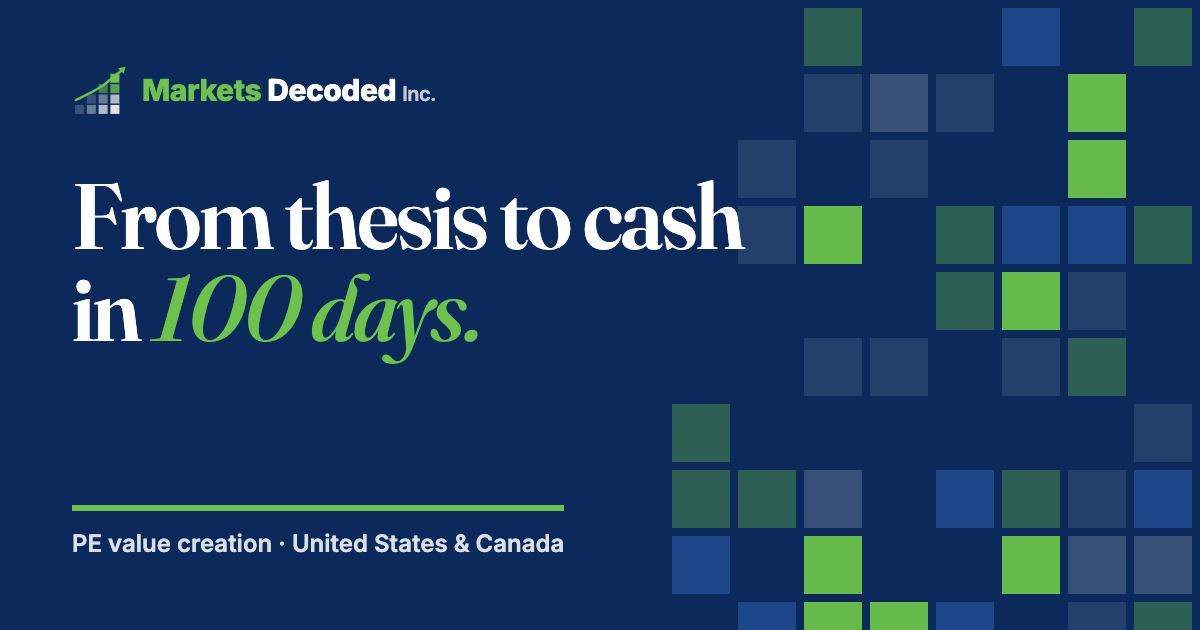
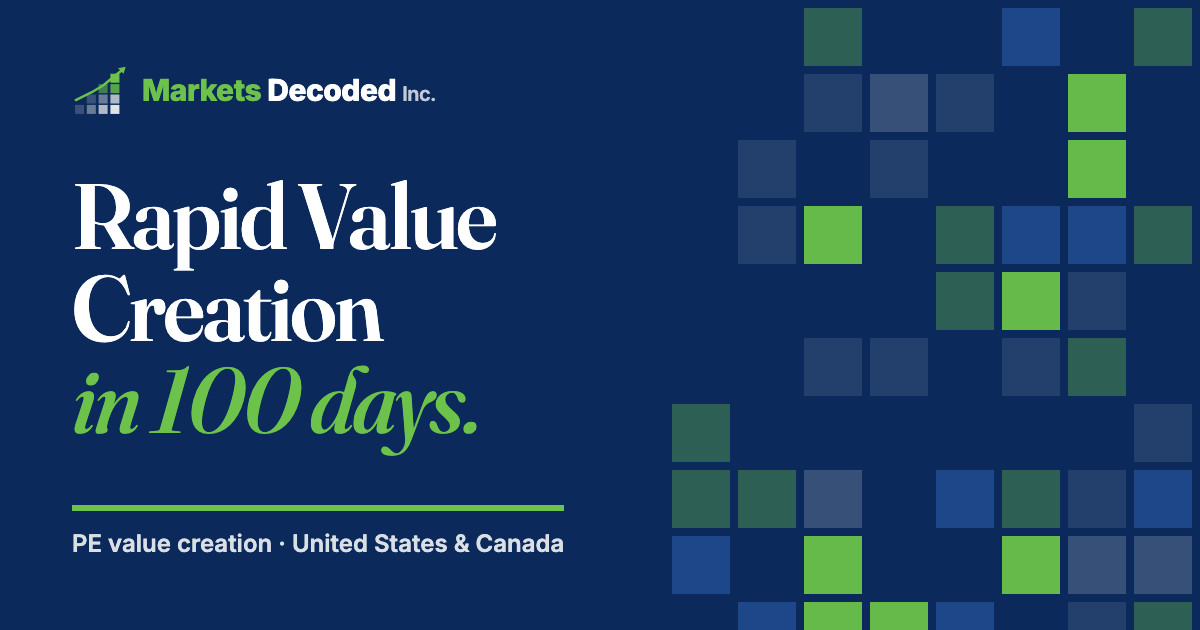
Change headline to "Rapid Value Creation in 100 days."
- Home hero, site tagline (footer), structured-data slogan and share-image alt text
- Regenerated og-image with the new headline
- Hero eyebrow shortened to "For PE sponsors · US & Canada"

Changed region(s): [[0.0617, 0.2714, 0.6167, 0.573], [0.0617, 0.573, 0.4008, 0.7238]]

diff --git a/index.html b/index.html
@@ -19,7 +19,7 @@
   <meta property="og:image" content="https://www.marketsdecoded.com/assets/img/og-image.png">
   <meta property="og:image:width" content="1200">
   <meta property="og:image:height" content="630">
-  <meta property="og:image:alt" content="Markets Decoded Inc. — From thesis to cash in 100 days.">
+  <meta property="og:image:alt" content="Markets Decoded Inc. — Rapid Value Creation in 100 days.">
   <meta name="twitter:card" content="summary_large_image">
   <meta name="twitter:title" content="Markets Decoded Inc. | Private Equity Value Creation, US & Canada">
   <meta name="twitter:description" content="Senior-led value creation for PE sponsors and portfolio companies. Measurable cash and EBITDA impact within 100 days, across the US and Canada.">
@@ -36,7 +36,7 @@
   <script src="assets/data/site-data.js" defer></script>
   <script src="assets/js/components.js" defer></script>
   <script src="assets/js/main.js" defer></script>
-  <script type="application/ld+json">{"@context": "https://schema.org", "@type": "ProfessionalService", "name": "Markets Decoded Inc.", "url": "https://www.marketsdecoded.com", "logo": "https://www.marketsdecoded.com/assets/img/logo.svg", "description": "Senior-led value creation partner for private equity sponsors and their portfolio companies across the US and Canada.", "slogan": "From thesis to cash in 100 days.", "address": {"@type": "PostalAddress", "addressLocality": "Toronto", "addressRegion": "ON", "addressCountry": "CA"}, "areaServed": [{"@type": "Country", "name": "Canada"}, {"@type": "Country", "name": "United States"}], "email": "contactus@marketsdecoded.com"}</script>
+  <script type="application/ld+json">{"@context": "https://schema.org", "@type": "ProfessionalService", "name": "Markets Decoded Inc.", "url": "https://www.marketsdecoded.com", "logo": "https://www.marketsdecoded.com/assets/img/logo.svg", "description": "Senior-led value creation partner for private equity sponsors and their portfolio companies across the US and Canada.", "slogan": "Rapid Value Creation in 100 days.", "address": {"@type": "PostalAddress", "addressLocality": "Toronto", "addressRegion": "ON", "addressCountry": "CA"}, "areaServed": [{"@type": "Country", "name": "Canada"}, {"@type": "Country", "name": "United States"}], "email": "contactus@marketsdecoded.com"}</script>
 </head>
 <body>
   <noscript><p class="noscript">This site works best with JavaScript enabled. <a href="services.html">Services</a> · <a href="results.html">Results</a> · <a href="contact.html">Contact</a></p></noscript>
@@ -46,8 +46,8 @@
     <section class="hero on-dark" aria-labelledby="page-title">
       <div class="hero-art"><div data-component="Media" data-props='{"slot": "home-hero", "seed": "home-hero-v2", "variant": "dark", "corner": 2, "eager": true}'></div></div>
       <div class="container hero-inner">
-        <p class="eyebrow">Value creation for PE sponsors · US &amp; Canada</p>
-        <h1 id="page-title" class="display-1">From thesis to cash in <span class="accent">100&nbsp;days.</span></h1>
+        <p class="eyebrow">For PE sponsors · US &amp; Canada</p>
+        <h1 id="page-title" class="display-1">Rapid Value Creation <span class="accent">in&nbsp;100&nbsp;days.</span></h1>
         <p class="lede">Markets Decoded is the senior-led value creation partner for private equity sponsors and their portfolio companies. We turn the investment thesis into measurable cash and EBITDA impact, in focused sprints.</p>
         <div class="hero-actions">
           <a class="btn btn-primary" href="contact.html?interest=diagnostic">Book a Diagnostic</a>

diff --git a/insight-portfolio-cyber-hygiene.html b/insight-portfolio-cyber-hygiene.html
@@ -19,7 +19,7 @@
   <meta property="og:image" content="https://www.marketsdecoded.com/assets/img/og-image.png">
   <meta property="og:image:width" content="1200">
   <meta property="og:image:height" content="630">
-  <meta property="og:image:alt" content="Markets Decoded Inc. — From thesis to cash in 100 days.">
+  <meta property="og:image:alt" content="Markets Decoded Inc. — Rapid Value Creation in 100 days.">
   <meta name="twitter:card" content="summary_large_image">
   <meta name="twitter:title" content="Portfolio Cyber Hygiene for Operating Partners | Markets Decoded Inc.">
   <meta name="twitter:description" content="The cyber hygiene basics, questions and governance routine every operating partner needs to keep cyber exposure visible across a PE portfolio.">

diff --git a/insight-sales-comp-ebitda-lever.html b/insight-sales-comp-ebitda-lever.html
@@ -19,7 +19,7 @@
   <meta property="og:image" content="https://www.marketsdecoded.com/assets/img/og-image.png">
   <meta property="og:image:width" content="1200">
   <meta property="og:image:height" content="630">
-  <meta property="og:image:alt" content="Markets Decoded Inc. — From thesis to cash in 100 days.">
+  <meta property="og:image:alt" content="Markets Decoded Inc. — Rapid Value Creation in 100 days.">
   <meta name="twitter:card" content="summary_large_image">
   <meta name="twitter:title" content="Sales comp is your cheapest EBITDA lever | Markets Decoded Inc.">
   <meta name="twitter:description" content="Why redesigning sales compensation often beats new hires, new tools and new markets as a lever for revenue and EBITDA in sponsor-backed companies.">

diff --git a/insight-sales-comp-redesign-8-weeks.html b/insight-sales-comp-redesign-8-weeks.html
@@ -19,7 +19,7 @@
   <meta property="og:image" content="https://www.marketsdecoded.com/assets/img/og-image.png">
   <meta property="og:image:width" content="1200">
   <meta property="og:image:height" content="630">
-  <meta property="og:image:alt" content="Markets Decoded Inc. — From thesis to cash in 100 days.">
+  <meta property="og:image:alt" content="Markets Decoded Inc. — Rapid Value Creation in 100 days.">
   <meta name="twitter:card" content="summary_large_image">
   <meta name="twitter:title" content="Sales Comp Redesign in 8 Weeks | Markets Decoded Inc.">
   <meta name="twitter:description" content="A week-by-week playbook for redesigning sales compensation in eight weeks: diagnose, design, model and test, then launch without disrupting the quarter.">

diff --git a/privacy-policy.html b/privacy-policy.html
@@ -19,7 +19,7 @@
   <meta property="og:image" content="https://www.marketsdecoded.com/assets/img/og-image.png">
   <meta property="og:image:width" content="1200">
   <meta property="og:image:height" content="630">
-  <meta property="og:image:alt" content="Markets Decoded Inc. — From thesis to cash in 100 days.">
+  <meta property="og:image:alt" content="Markets Decoded Inc. — Rapid Value Creation in 100 days.">
   <meta name="twitter:card" content="summary_large_image">
   <meta name="twitter:title" content="Privacy Policy | Markets Decoded Inc.">
   <meta name="twitter:description" content="How Markets Decoded Inc. collects, uses and protects personal information, including information we receive from private equity sponsors and their portfolio companies.">

diff --git a/insight-100-day-plans-day-45.html b/insight-100-day-plans-day-45.html
@@ -19,7 +19,7 @@
   <meta property="og:image" content="https://www.marketsdecoded.com/assets/img/og-image.png">
   <meta property="og:image:width" content="1200">
   <meta property="og:image:height" content="630">
-  <meta property="og:image:alt" content="Markets Decoded Inc. — From thesis to cash in 100 days.">
+  <meta property="og:image:alt" content="Markets Decoded Inc. — Rapid Value Creation in 100 days.">
   <meta name="twitter:card" content="summary_large_image">
   <meta name="twitter:title" content="Why so many 100-day plans stall at day 45 | Markets Decoded Inc.">
   <meta name="twitter:description" content="Why 100-day value creation plans lose momentum around day 45, and the ownership, cadence and measurement habits that keep them on track.">

diff --git a/results.html b/results.html
@@ -19,7 +19,7 @@
   <meta property="og:image" content="https://www.marketsdecoded.com/assets/img/og-image.png">
   <meta property="og:image:width" content="1200">
   <meta property="og:image:height" content="630">
-  <meta property="og:image:alt" content="Markets Decoded Inc. — From thesis to cash in 100 days.">
+  <meta property="og:image:alt" content="Markets Decoded Inc. — Rapid Value Creation in 100 days.">
   <meta name="twitter:card" content="summary_large_image">
   <meta name="twitter:title" content="Client Results & Case Studies | Markets Decoded Inc.">
   <meta name="twitter:description" content="Anonymized case studies: 22% and 14% cash conversion cycle improvements, a 15% revenue lift and 20% efficiency gains for sponsor-backed companies.">

diff --git a/insight-post-merger-culture-checklist.html b/insight-post-merger-culture-checklist.html
@@ -19,7 +19,7 @@
   <meta property="og:image" content="https://www.marketsdecoded.com/assets/img/og-image.png">
   <meta property="og:image:width" content="1200">
   <meta property="og:image:height" content="630">
-  <meta property="og:image:alt" content="Markets Decoded Inc. — From thesis to cash in 100 days.">
+  <meta property="og:image:alt" content="Markets Decoded Inc. — Rapid Value Creation in 100 days.">
   <meta name="twitter:card" content="summary_large_image">
   <meta name="twitter:title" content="Post-Merger Culture Integration Checklist | Markets Decoded Inc.">
   <meta name="twitter:description" content="A practical checklist for the people side of an add-on: what to measure, decide and communicate in the first 90 days after close.">

diff --git a/industries.html b/industries.html
@@ -19,7 +19,7 @@
   <meta property="og:image" content="https://www.marketsdecoded.com/assets/img/og-image.png">
   <meta property="og:image:width" content="1200">
   <meta property="og:image:height" content="630">
-  <meta property="og:image:alt" content="Markets Decoded Inc. — From thesis to cash in 100 days.">
+  <meta property="og:image:alt" content="Markets Decoded Inc. — Rapid Value Creation in 100 days.">
   <meta name="twitter:card" content="summary_large_image">
   <meta name="twitter:title" content="Industries | Markets Decoded Inc.">
   <meta name="twitter:description" content="Value creation for PE-backed companies in industrial and energy distribution, healthcare services and diagnostics, business and marketing services, and more.">

diff --git a/insight-100-day-cash-playbook.html b/insight-100-day-cash-playbook.html
@@ -19,7 +19,7 @@
   <meta property="og:image" content="https://www.marketsdecoded.com/assets/img/og-image.png">
   <meta property="og:image:width" content="1200">
   <meta property="og:image:height" content="630">
-  <meta property="og:image:alt" content="Markets Decoded Inc. — From thesis to cash in 100 days.">
+  <meta property="og:image:alt" content="Markets Decoded Inc. — Rapid Value Creation in 100 days.">
   <meta name="twitter:card" content="summary_large_image">
   <meta name="twitter:title" content="The 100-Day Cash Playbook | Markets Decoded Inc.">
   <meta name="twitter:description" content="How operating partners can install a 13-week cash rhythm and release working capital in the first 100 days after a platform close.">

diff --git a/about.html b/about.html
@@ -19,7 +19,7 @@
   <meta property="og:image" content="https://www.marketsdecoded.com/assets/img/og-image.png">
   <meta property="og:image:width" content="1200">
   <meta property="og:image:height" content="630">
-  <meta property="og:image:alt" content="Markets Decoded Inc. — From thesis to cash in 100 days.">
+  <meta property="og:image:alt" content="Markets Decoded Inc. — Rapid Value Creation in 100 days.">
   <meta name="twitter:card" content="summary_large_image">
   <meta name="twitter:title" content="About Us | Markets Decoded Inc.">
   <meta name="twitter:description" content="Markets Decoded is a Toronto-based, senior-led value creation partner for PE sponsors: fast, measured, senior, sponsor-aligned and cross-border.">

diff --git a/services.html b/services.html
@@ -19,7 +19,7 @@
   <meta property="og:image" content="https://www.marketsdecoded.com/assets/img/og-image.png">
   <meta property="og:image:width" content="1200">
   <meta property="og:image:height" content="630">
-  <meta property="og:image:alt" content="Markets Decoded Inc. — From thesis to cash in 100 days.">
+  <meta property="og:image:alt" content="Markets Decoded Inc. — Rapid Value Creation in 100 days.">
   <meta name="twitter:card" content="summary_large_image">
   <meta name="twitter:title" content="Services | Markets Decoded Inc.">
   <meta name="twitter:description" content="Financial, Go-To-Market, Risk, Digital and Cultural transformation for PE-backed companies, from a focused Diagnostic to an ongoing Retainer.">
